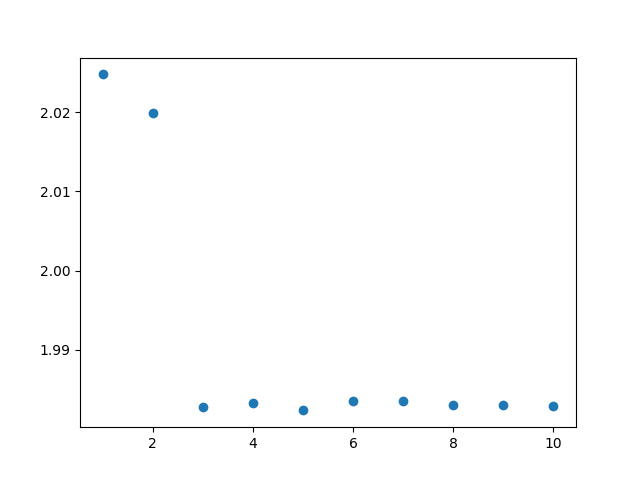
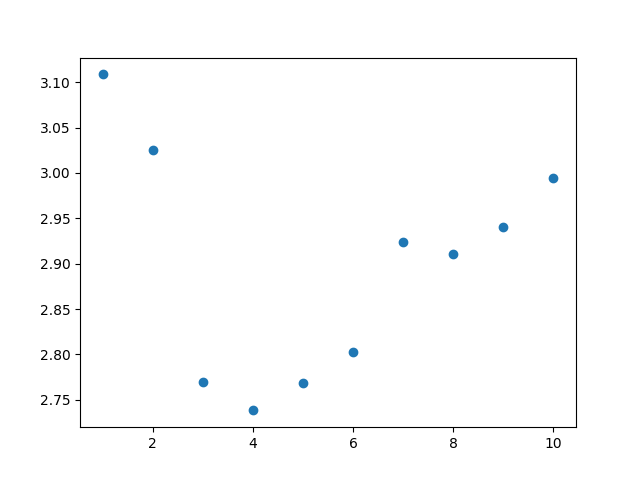
updates to logprobs

diff --git a/Homework_4/data_generation.py b/Homework_4/data_generation.py
@@ -74,7 +74,7 @@ def generate_1d_Gaussian_Mixture_logprob(data, components = 1, color = 'black'):
     likelihood = -(GM_1.score(data))
     return likelihood
 
-def generate_1d_Gaussian_Mixture_logprob(data, components = 1, color = 'black'):
+def generate_2d_Gaussian_Mixture_logprob(data, components = 1, color = 'black'):
     GM_1 = mixture.GaussianMixture(components)
     GM_1.fit(data)
     likelihood = -(GM_1.score(data))
@@ -135,8 +135,8 @@ def q5():
     dogslogprobs = []
     catslogprobs = []
     for i in range(10):
-        dogslogprobs.append(generate_1d_Gaussian_Mixture_logprob(traindogs,i+1))
-        catslogprobs.append(generate_1d_Gaussian_Mixture_logprob(traincats,i+1))
+        dogslogprobs.append(generate_2d_Gaussian_Mixture_logprob(traindogs,i+1))
+        catslogprobs.append(generate_2d_Gaussian_Mixture_logprob(traincats,i+1))
     x = np.linspace(1,10,10)
     plt.scatter(x,dogslogprobs)
     plt.scatter(x,catslogprobs)
